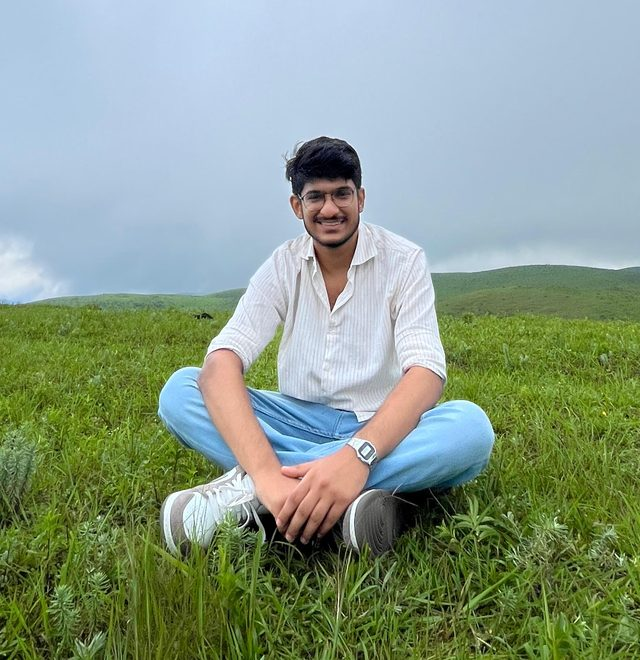
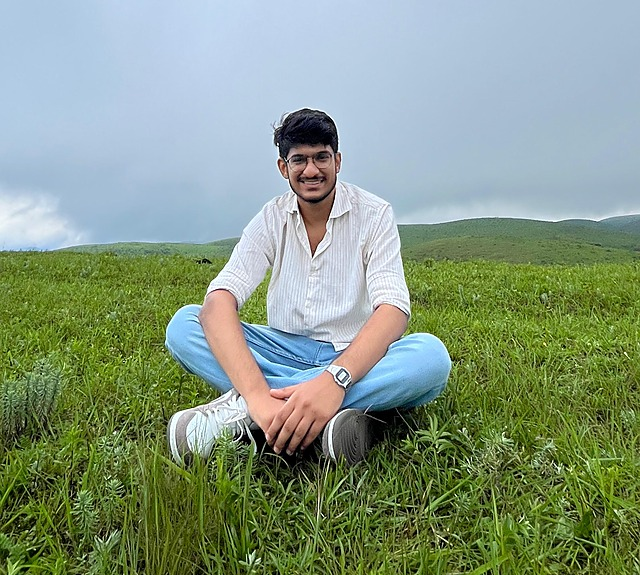
fix(web): portrait re-rendered — wider crop, Lanczos + unsharp, q92
Previous asset zoomed harder into an already-compressed source and
encoded at low quality; wider framing downscales 3.5x from the 12MP
original, which is where the sharpness comes from.

diff --git a/web/content/human.ts b/web/content/human.ts
@@ -40,6 +40,6 @@ export const human: HumanContent = HumanSchema.parse({
     src: '/images/hitesh-crop-640.jpg',
     alt: 'Portrait of Hitesh Modi',
     width: 640,
-    height: 660,
+    height: 575,
   },
 })
